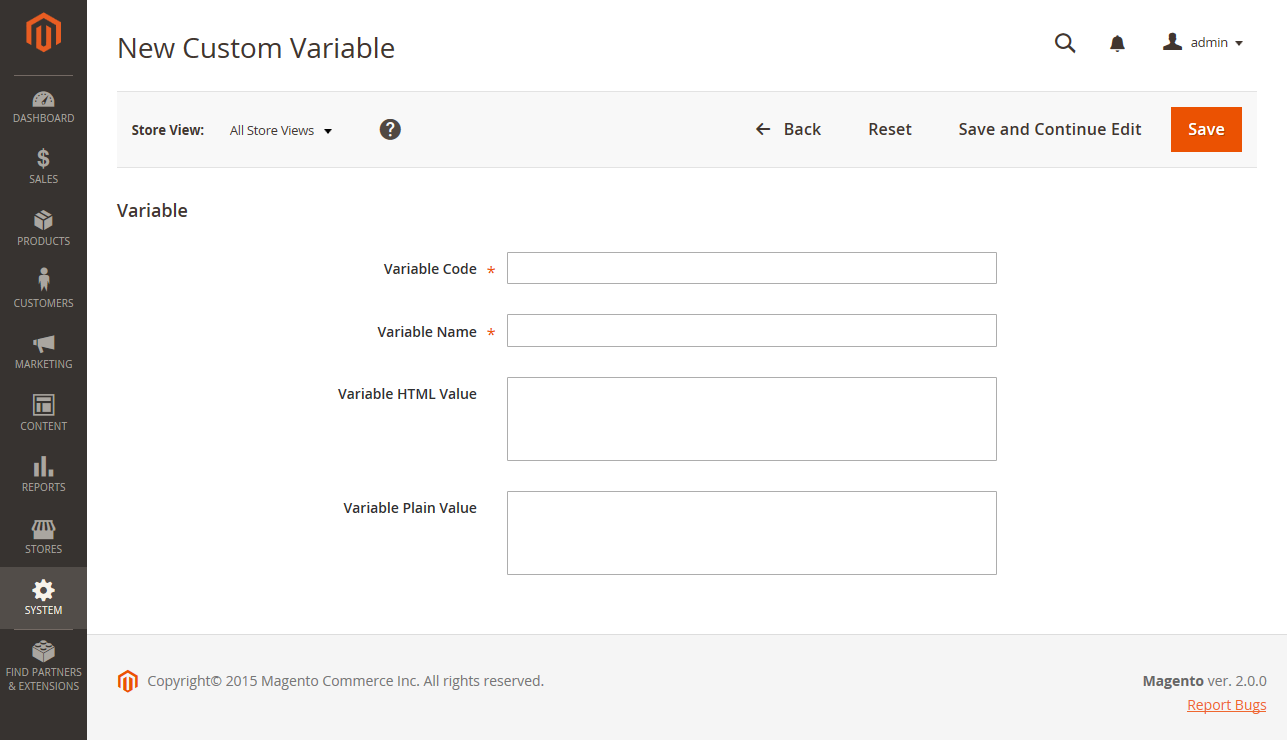
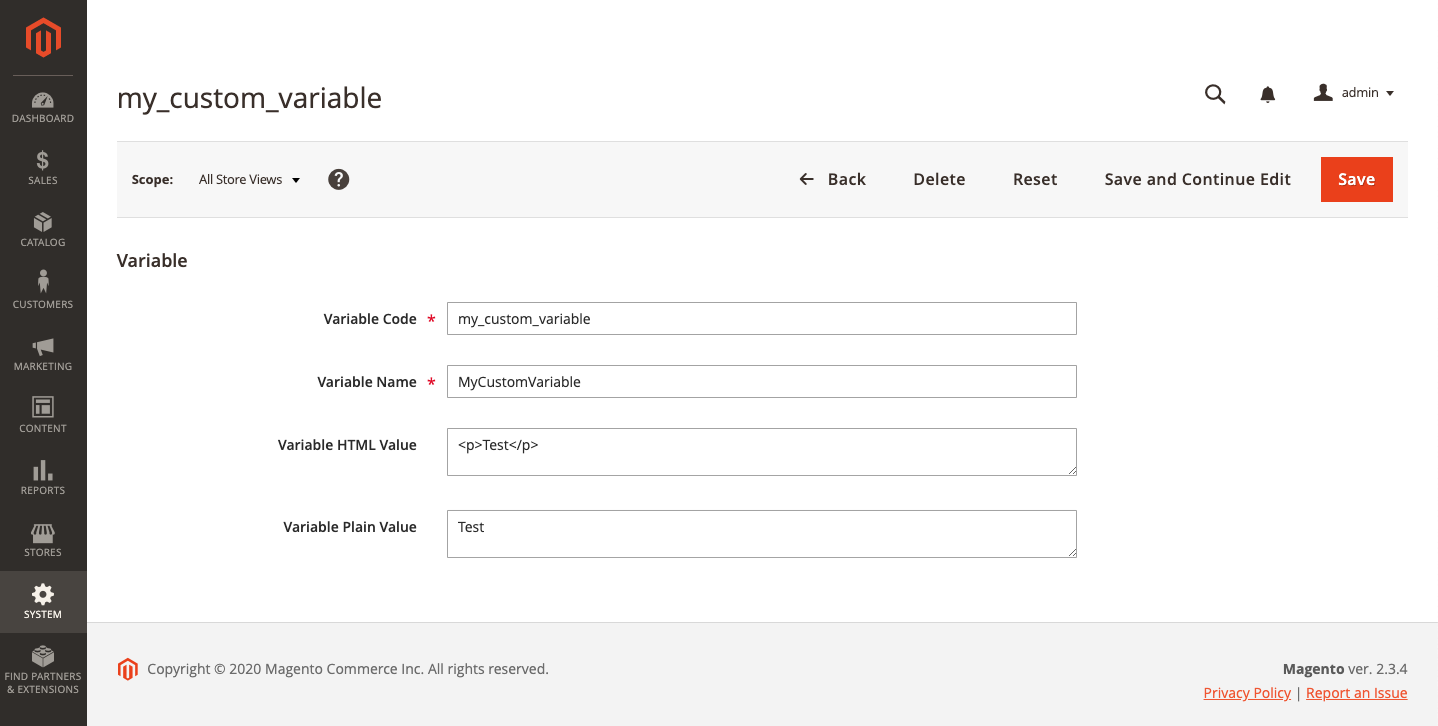
Whitelisted variables (#436)
* Updated screenshots

Predefined variables screenshots

* Updated instructions

Updated instructions and screenshots.

* Updated and added new screenshots

Updated screenshots related to custom variables, and added new ones for ce/ee instructions.

* Updated Custom Variables topic

Reworked instructions, and added conditionals for ce/ee-b2b,

* Updated images

Added updated images.

* Updated content

Updated content to clarify where whitelisted variables can be used; misc updates to content for clarity and consistency.

* Update src/marketing/email-template-message.md

* Update src/marketing/email-template-message.md

* Update src/marketing/variables-custom.md

* Update src/marketing/variables-custom.md

* Update src/marketing/variables-predefined.md

* Update src/marketing/variables-predefined.md

* Update src/marketing/variables-predefined.md

* Update src/marketing/email-template-message.md

* Update src/marketing/email-template-message.md

* Minor edit

Simplified sentences.

* Minor edit

Added "customizing"

* Update src/marketing/email-template-message.md

* Update src/marketing/email-template-message.md

* Update src/marketing/variables-custom.md

* Misc edits

Simpified sentences, added missing period.

* Update src/marketing/variables-custom.md

* Update src/marketing/variables-custom.md

* Update src/marketing/variables-custom.md

* Update src/marketing/variables-custom.md

diff --git a/src/marketing/email-template-message.md b/src/marketing/email-template-message.md
@@ -2,30 +2,32 @@
 title: Message Templates
 ---
 
-The process of customizing the body of each message is the same as the customizing the header or footer. The only difference is that there is a different message template for each activity or event that triggers a notification. You can use the templates as they are, or customize them to match your voice and brand. In addition to the template text, there is a wide selection of [variables]({% link marketing/variables.md %}) that can be incorporated into the template.
+The process of customizing the body of each message is the same as for customizing the header or footer. The only difference is the message template for each activity or event that triggers a notification. You can use the templates as they are, or customize them to match your voice and brand. In addition to the template text, there is a wide selection of whitelisted [predefined]({% link marketing/variables-predefined.md %}) variables and [custom]({% link marketing/variables-custom.md %}) varibles that you can create and incorporate into the template.
 
-## Step 1. Load the Default Template
+## Step 1. Load the default template
 
 1. On the _Admin_ sidebar, go to **Marketing** > _Communications_ > **Email Templates**.
 
-1. Click <span class="btn">Add New Template</span>. Then, do the following:
+1. Click <span class="btn">Add New Template</span>.
 
-    - Under **Load default template**, choose the template that you want to customize.
+   ![Email templates - load default template]({% link images/images/email-templates-message-load-default.png %}){: .zoom}
+   _Template Information_
+
+1. Do the following:
+
+    - Under **Load default template**, choose the **Template** that you want to customize.
 
     - Click <span class="btn">Load Template</span>.
 
-    ![Email templates - load default template]({% link images/images/email-templates-message-load-default.png %}){: .zoom}
-    _Default Message Template_
+## Step 2. Customize the template
 
-## Step 2. Customize the Template
-
-1. In the **Template Name** field, enter a name for your custom template.
+1. For **Template Name**, enter a name for your custom template.
 
 1. If needed, change the **Template Subject**.
 
-   This is contains the first line of the message, which is the salutation by default. You can leave it as is, or enter something more descriptive.
+   This is the first line of the message, which is the salutation by default. You can leave it as is, or you can enter something more descriptive.
 
-1. Take note of the **Currently Used For** path to the template configuration. You will later follow this path to update the configuration.
+1. Take note of the **Currently Used For** path to the template. You will later follow this path to update the configuration.
 
     ![Email templates - template information]({% link images/images/email-template-message-information.png %}){: .zoom}
     _Message Template Information_
@@ -37,49 +39,56 @@ The process of customizing the body of each message is the same as the customizi
     {:.bs-callout-info}
     When working in the template code, be careful not to accidentally type over the code that is enclosed in double braces.
 
-    ![Email templates - template comtent]({% link images/images/email-template-message-content.png %}){: .zoom}
-    _Template Message Content_
+1. To insert a variable, position the cursor in the code where you want the variable to appear.
 
-1. To insert a variable, position the cursor in the code where you want the variable to appear, click <span class="btn">Insert Variable</span>, and choose the variable that you want to insert.
+   The selection of variables varies by template and includes whitelisted [predefined]({% link marketing/variables-predefined.md %}) and [custom]({% link marketing/variables-custom.md %}) variables, if available.
 
-    When a variable is selected, a [markup tag]({% link marketing/markup-tags.md -%}) for the variable is inserted in the code.
+1. Click <span class="btn">Insert Variable</span> and choose the variable that you want to insert.
 
-    ![Email templates - insert variable]({% link images/images/email-template-variable-message.png %}){: .zoom}
-    _Insert Variable_
+   ![Email templates - insert variable]({% link images/images/email-template-insert-variable.png %}){: .zoom}
+   _Insert Variable_
 
-    In addition to the Store Contact variables, the list includes the Customer Account URL, Customer Email, and Customer Name. However, you are not limited to the variables in this list. You can enter the code for any system or [custom variable]({% link marketing/variables-custom.md %}) directly into the template.
+   A command to insert the variable is enclosed in curly braces and added to the code at the cursor location. For example:
 
-1. If you need to make any CSS declarations, enter the styles in the **Template Styles** box.
+   `customVar code=my_custom_variable`
 
-## Step 3. Update the Configuration
+1. To make CSS declarations, enter the styles in **Template Styles**.
 
-1. In the breadcrumb trail at the top of the Template Information section, find the following information, as it relates to your template.
+## Step 3. Update the configuration
 
-   In this example the template configuration is located on the Customer Configuration page, in the Create New Account Options section, and in the Default Welcome Email field.
+The Currently Used For breadcrumb trail at the top of the Template Information section shows where the template is used. In this example, the template configuration is located on the Customer Configuration page, in the Create New Account Options section, and in the Default Welcome Email field.
 
-    |Page|Customer Configuration|
-    |Section|Create New Account Options|
-    |Field|Default Welcome Email|
+|Page|Customer Configuration|
+|Section|Create New Account Options|
+|Field|Default Welcome Email|
 
-1. Click the link to open the template configuration page.
+1. In the **Currently Used For** breadcrumb trail, click the link to open the template configuration page.
 
     ![]({% link images/images/email-template-new-currently-used-for.png %}){: .zoom}
     _Current email template_
 
-1. Expand ![Expansion selector]({% link images/images/btn-expand.png %}) the section, find the field for the email template that you customized, and specify the new custom template as the default.
+1. Expand ![Expansion selector]({% link images/images/btn-expand.png %}) the section, and find the field for the email template that you customized.
 
-    ![Customers configuration - default welcome email template]({% link images/images/email-template-message-configuration-default-template.png %}){: .zoom}
-    _Welcome Email Configuration_
+1. Clear the **Use system value** checkbox and click the name of your custom template.
 
-## Step 4. Preview and Save the Template
+   ![Customers configuration - default welcome email template]({% link images/images/email-template-message-configuration-default-template.png %}){: .zoom}
+   _Welcome Email Configuration_
 
-1. When you are ready to review your work, click <span class="btn">Preview Template</span>. Then, make adjustments to the template as needed.
+1. When complete, click <span class="btn">Save Config</span>.
+
+1. In the message at the top of the workspace, click **Cache Management** and clear any invalid cache.
+
+## Step 4. Preview and save the template
+
+1. When you are ready to review your work, click <span class="btn">Preview Template</span>.
+
+1. Update the template as needed.
 
 1. When complete, click <span class="btn">Save Template</span>.
 
    Your custom template is now available in the list of Email templates.
 
-    ![]({% link images/images/email-templates-grid-new-account-template.png %}){: .zoom}
+   ![]({% link images/images/email-templates-grid-new-account-template.png %}){: .zoom}
 
 ## Field Descriptions
 

diff --git a/src/marketing/variables-custom.md b/src/marketing/variables-custom.md
@@ -4,38 +4,94 @@ redirect_from:
   - /system/variables-custom.html
 ---
 
-If you know a little basic HTML, you can create custom variables and use a [markup tag]({% link marketing/markup-tags.md -%}) to incorporate them into [email]({% link marketing/email-templates.md -%}) and [newsletter]({% link marketing/newsletter-template.md -%}) templates, as well as other types of [content]({% link cms/content-elements.md -%}).
+To meet the specific needs of your business, you can create custom variables and insert them into [pages]({% link cms/pages.md -%}), [blocks]({% link cms/blocks.md -%}) and [email]({% link marketing/email-template-message.md %}) templates. The list of whitelisted variables that appears when you click the Insert Variable button includes both [predefined]({% link marketing/variables-predefined.md %}) and custom variables. As shown in the following image, the list of available variables for a specific email template is determined by the data that is associated with the template. See the [Variable Reference]({% link marketing/variables-reference.md -%}) for a list of frequently-used email templates and their associated variables.
 
-![Custome variables]({% link images/images/variables-custom.png %}){: .zoom}
-_Custom Variables_
+{:.bs-callout-info}
+Only whitelisted [predefined]({% link marketing/variables-predefined.md %}) or custom variables can be used in email and newsletter templates.
 
-## Create a Custom Variable
+## Step 1: Create a custom variable
 
 1. On the _Admin_ sidebar, go to **System** > _Other Settings_ > **Custom Variables**.
 
 1. Click <span class="btn">Add New Variable</span>.
 
-1. Enter an identifier in the **Variable Code** field, using all lowercase characters without spaces.
+   ![Custom variables]({% link images/images/variables-custom.png %}){: .zoom}
+   _Custom Variables_
 
-    If needed, you can use an underscore character to represent a space. For example: `my_custom_variable`
+1. Enter an identifier for **Variable Code**, using all lowercase characters without spaces.
+
+   If needed, you can use an underscore character or hyphen to represent a space. For example: `my_custom_variable`
 
 1. Enter a **Variable Name**, which is used for internal reference. For example: `My Custom Variable`
 
 1. To enter the value that is associated with the variable, do one of the following:
 
-   - In the **Variable HTML Value** field, enter the variable value formatted with simple HTML tags. For example:
-   `<b>This formatted content appears in place of the variable.</b>`
-   - In the **Variable Plain Value** field, enter the variable value as plain text without formatting. For example:
-    `This unformatted content appears in place of the variable.`
+   - For **Variable HTML Value**, enter the variable value formatted with simple HTML tags. For example:
+      `<b>This formatted content appears in place of the variable.</b>`
+   - For **Variable Plain Value**, enter the variable value as plain text without formatting. For example:
+      `This unformatted content appears in place of the variable.`
 
-    {:.bs-callout-info}
-    You can drag the lower-right corner to make the boxes bigger.
+   {:.bs-callout-info}
+   If you need more room, drag the lower-right corner of the text box.
 
-    ![New custom variable]({% link images/images/variable-custom-add.png %}){: .zoom}
-    _New Custom Variable_
+   ![New custom variable]({% link images/images/variable-custom-add.png %}){: .zoom}
+   _New Custom Variable_
 
 1. When complete, click <span class="btn">Save</span>.
 
-  Your custom variable is now available to be inserted into email and newsletter templates and other types of content.  The code that is inserted looks similar to the following [markup tag]({% link marketing/markup-tags.md -%}):
+## Step 2: Insert the custom variable
 
-  'CustomVar code= "my_custom_variable"'
+<!--{% if "Default.CE Only" contains site.edition %}-->
+The following example shows how to insert a variable into a page.
+
+1. Open the CMS page or block where the variable is to appear.
+
+1. Expand ![]({% link images/images/btn-expand.png %}){: .Inline} the **Content** section. Then, click <span class="btn">Show / Hide Editor</span> to work in HTML.
+
+1. Position the insertion point in the editor where you want the variable to appear and click <span class="btn">Insert Variable</span>.
+
+1. Select the option for the custom variable that you want to insert and click <span class="btn">Insert Variable</span>.
+
+   ![New custom variable]({% link images/images/variable-custom-insert-select.png %}){: .zoom}
+   _Select Custom Variable_
+
+   A command to insert the variable is enclosed in curly braces and added to the code at the cursor location. For example:
+
+   `customVar code=my_custom_variable`
+
+   ![New custom variable]({% link images/images/variable-custom-insert-content.png %}){: .zoom}
+   _Custom Variable Code_
+
+1. When complete, click <span class="btn">Save</span>.
+<!--{% endif %}-->
+
+<!--{% if "Default.EE-B2B" contains site.edition %}-->
+The following example shows how to use [Page Builder]({% link cms/page-builder.md %}) to insert a custom variable into a page.
+
+1. Open the page or block where the variable is to appear.
+
+1. Expand ![]({% link images/images/btn-expand.png %}){: .Inline} the **Content** section.
+
+1. In the left panel, click **Elements** and do one of the following:
+
+   - Click in an existing text area where you want to insert the variable.
+
+   - Drag a new **Text** object to the stage.
+
+1. At the far right of the editor toolbar, click (![]({% link images/images/editor4-toolbar/btn-insert-variable.png %}){: .Inline}) to insert a variable.
+
+   ![Page Builder stage]({% link images/images-ee/variable-custom-pagebuilder-stage.png %}){: .zoom}
+   _PageBuilder Stage and Panel_
+
+1. In the list, select the custom variable that you want to insert and click <span class="btn">Insert Variable</span>.
+
+   ![New custom variable]({% link images/images-ee/variable-custom-insert-select.png %}){: .zoom}
+   _Select Custom Variable_
+
+   The variable identifier appears as a placeholder in the editor.
+
+   ![Page Builder stage]({% link images/images-ee/pagebuilder-variable-inserted.png %}){: .zoom}
+   _Variable Placeholder_
+
+1. When complete, click <span class="btn">Save</span>.
+<!--{% endif %}-->

diff --git a/src/marketing/variables-predefined.md b/src/marketing/variables-predefined.md
@@ -2,24 +2,39 @@
 title: Adding Predefined Variables
 ---
 
-Predefined variables make it easy to personalize [email]({% link marketing/email-templates.md -%}) and [newsletter]({% link marketing/newsletters.md -%}) templates, as well as other types of [content]({% link cms/content-elements.md -%}). The list of available predefined variables appears when you click the Insert Variable button. As shown in the following image, the list of available predefined variables for a specific email template is determined by the collection of data that is associated with the template. See the [Variable Reference]({% link marketing/variables-reference.md -%}) for a list of frequently-used email templates and their associated variables.
+[Predefined]({% link marketing/variables-predefined.md %}) variables make it easy to personalize [email]({% link marketing/email-templates.md -%}) and [newsletter]({% link marketing/newsletters.md -%}) templates, as well as other types of [content]({% link cms/content-elements.md -%}). The list of whitelisted [predefined]({% link marketing/variables-predefined.md %}) variables appears when you click the Insert Variable button. As shown in the following image, the list of available variables for a specific email template is determined by the data that is associated with the template. See the [Variable Reference]({% link marketing/variables-reference.md -%}) for a list of frequently-used email templates and their associated variables.
 
-![]({% link images/images/variable-insert-contact-email.png %}){: .zoom}
-_Variables for Contact Form Template_
+![]({% link images/images/email-template-new-pickup-order-predefined-variables.png %}){: .zoom}
+_Predefined Variables for Email Template_
 
-## Add a Variable to an Email Template
+## Add a variable to an email template
 
 1. On the _Admin_ sidebar, go to **Marketing** > _Communications_ > **Email Templates**.
 
 1. Do one of the following:
 
     - To add the variable to an existing template, click the template in the list to open in edit mode.
-    - To use the variable in a new template, click <span class="btn">Add New Template</span> and customize the default template code. To learn more, see [Message Templates]({% link marketing/email-template-message.md %}).
+
+    - To use the variable in a new template, click <span class="btn">Add New Template</span> and customize the default template code. See [Message Templates]({% link marketing/email-template-message.md %}).
+
+1. For a list of the [predefined]({% link marketing/variables-predefined.md %}) variables that can be used with this email template, click <span class="btn">Insert Variable</span>.
+
+   Determine which variable you want to insert into the template. Then, click **Close** (x) in the upper-right corner. (You will return to this later.)
+
+1. To see a mock-up of the template, click **Preview Template** in the button bar.
+
+   When the preview opens in a new tab, determine where you want to place the variable in relation to the other content. Then return to the original tab to continue.
+
+   ![]({% link images/images/email-template-new-pickup-order-preview.png %}){: .zoom}
+   _Preview Template_
 
 1. In the **Template Content** box, position the insertion point where you want the variable to appear and click <span class="btn">Insert Variable</span>.
 
-1. In the list of available variables, choose the one you want to insert into the template.
+1. In the list of available variables, click the one that you want to insert into the template.
 
-1. To preview the template in a new browser window, click <span class="btn">Preview</span>. Then, return to the main window.
+   In this example, the `Order Items Grid` variable is added to the template.
+
+   ![]({% link images/images/email-template-content.png %}){: .zoom}
+   _Email Template Content_
 
 1. When complete, click <span class="btn">Save Template</span>.
